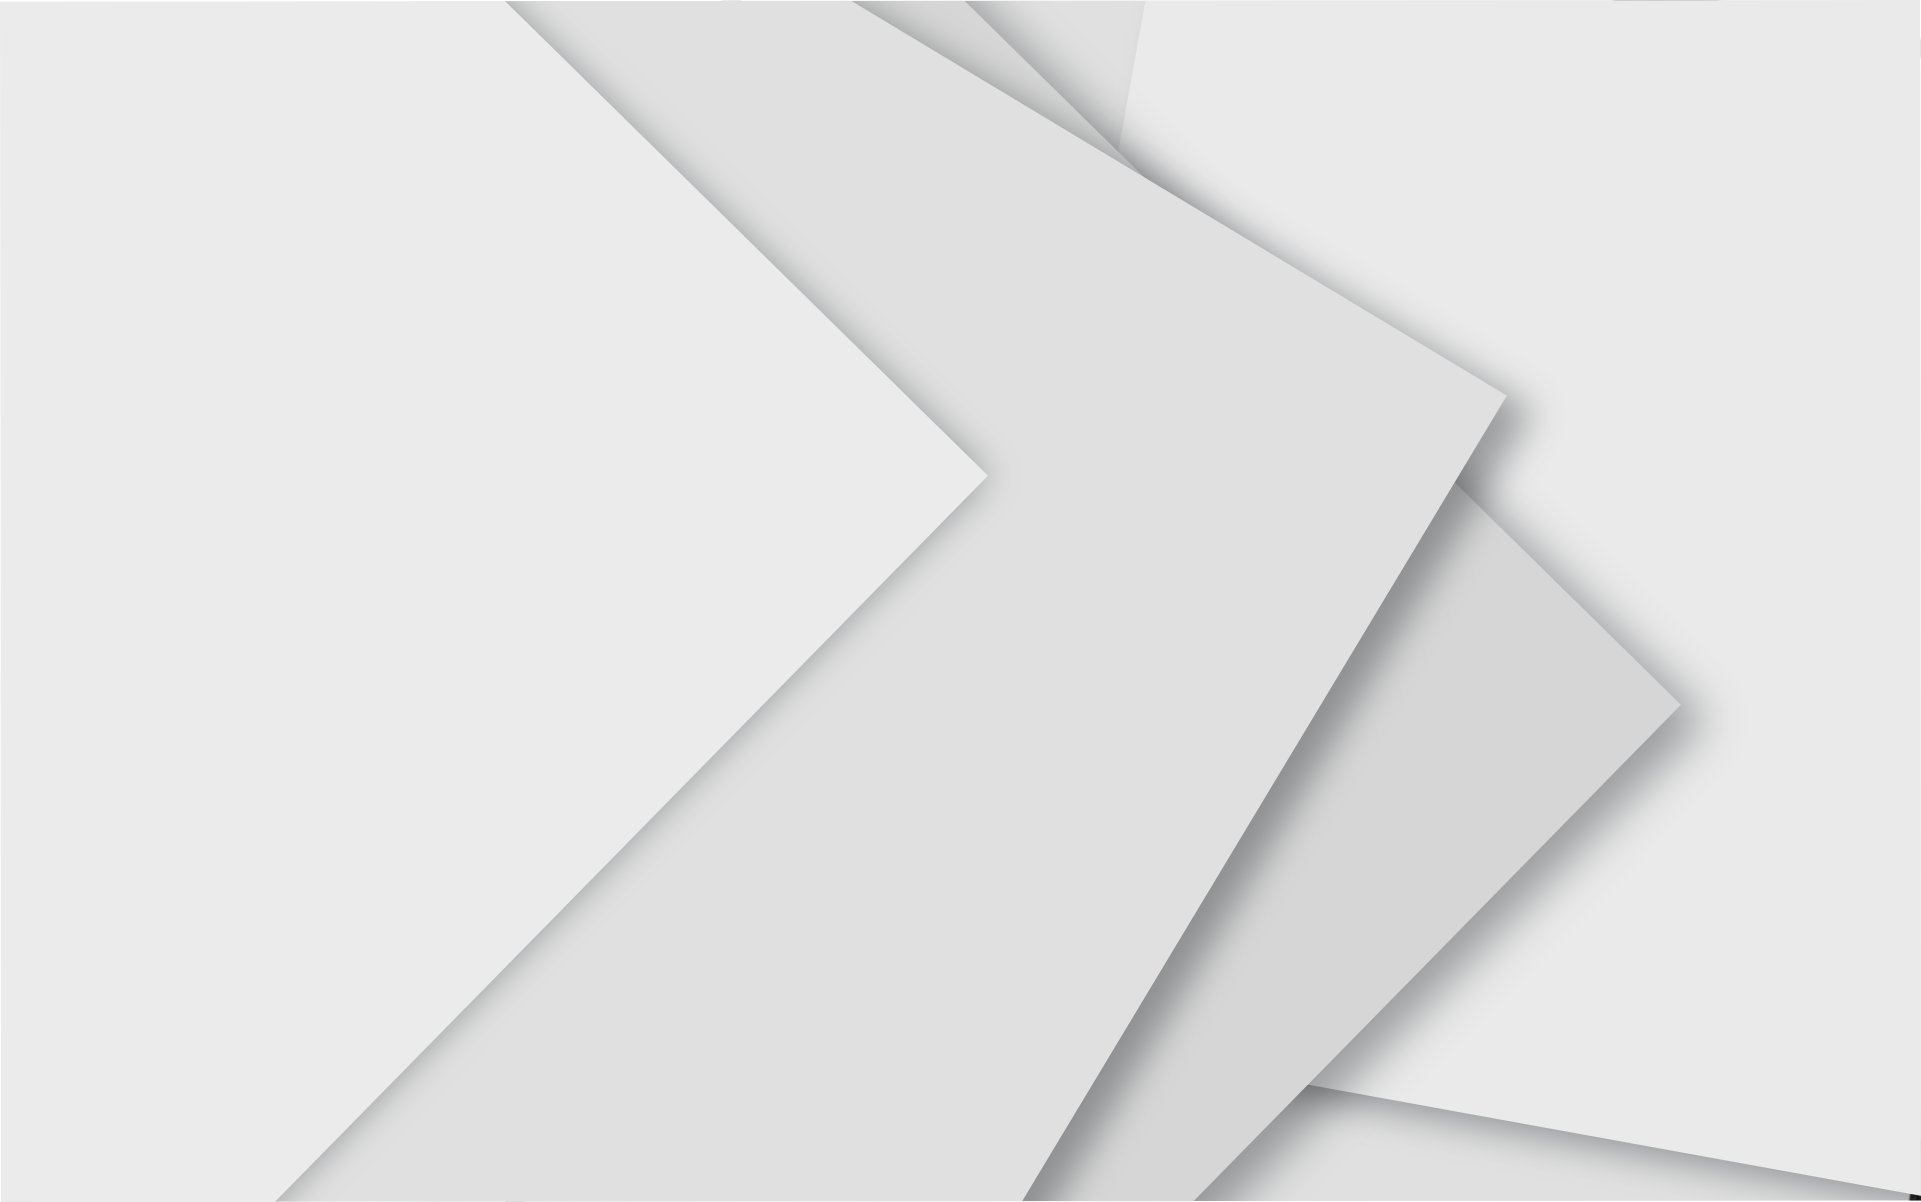
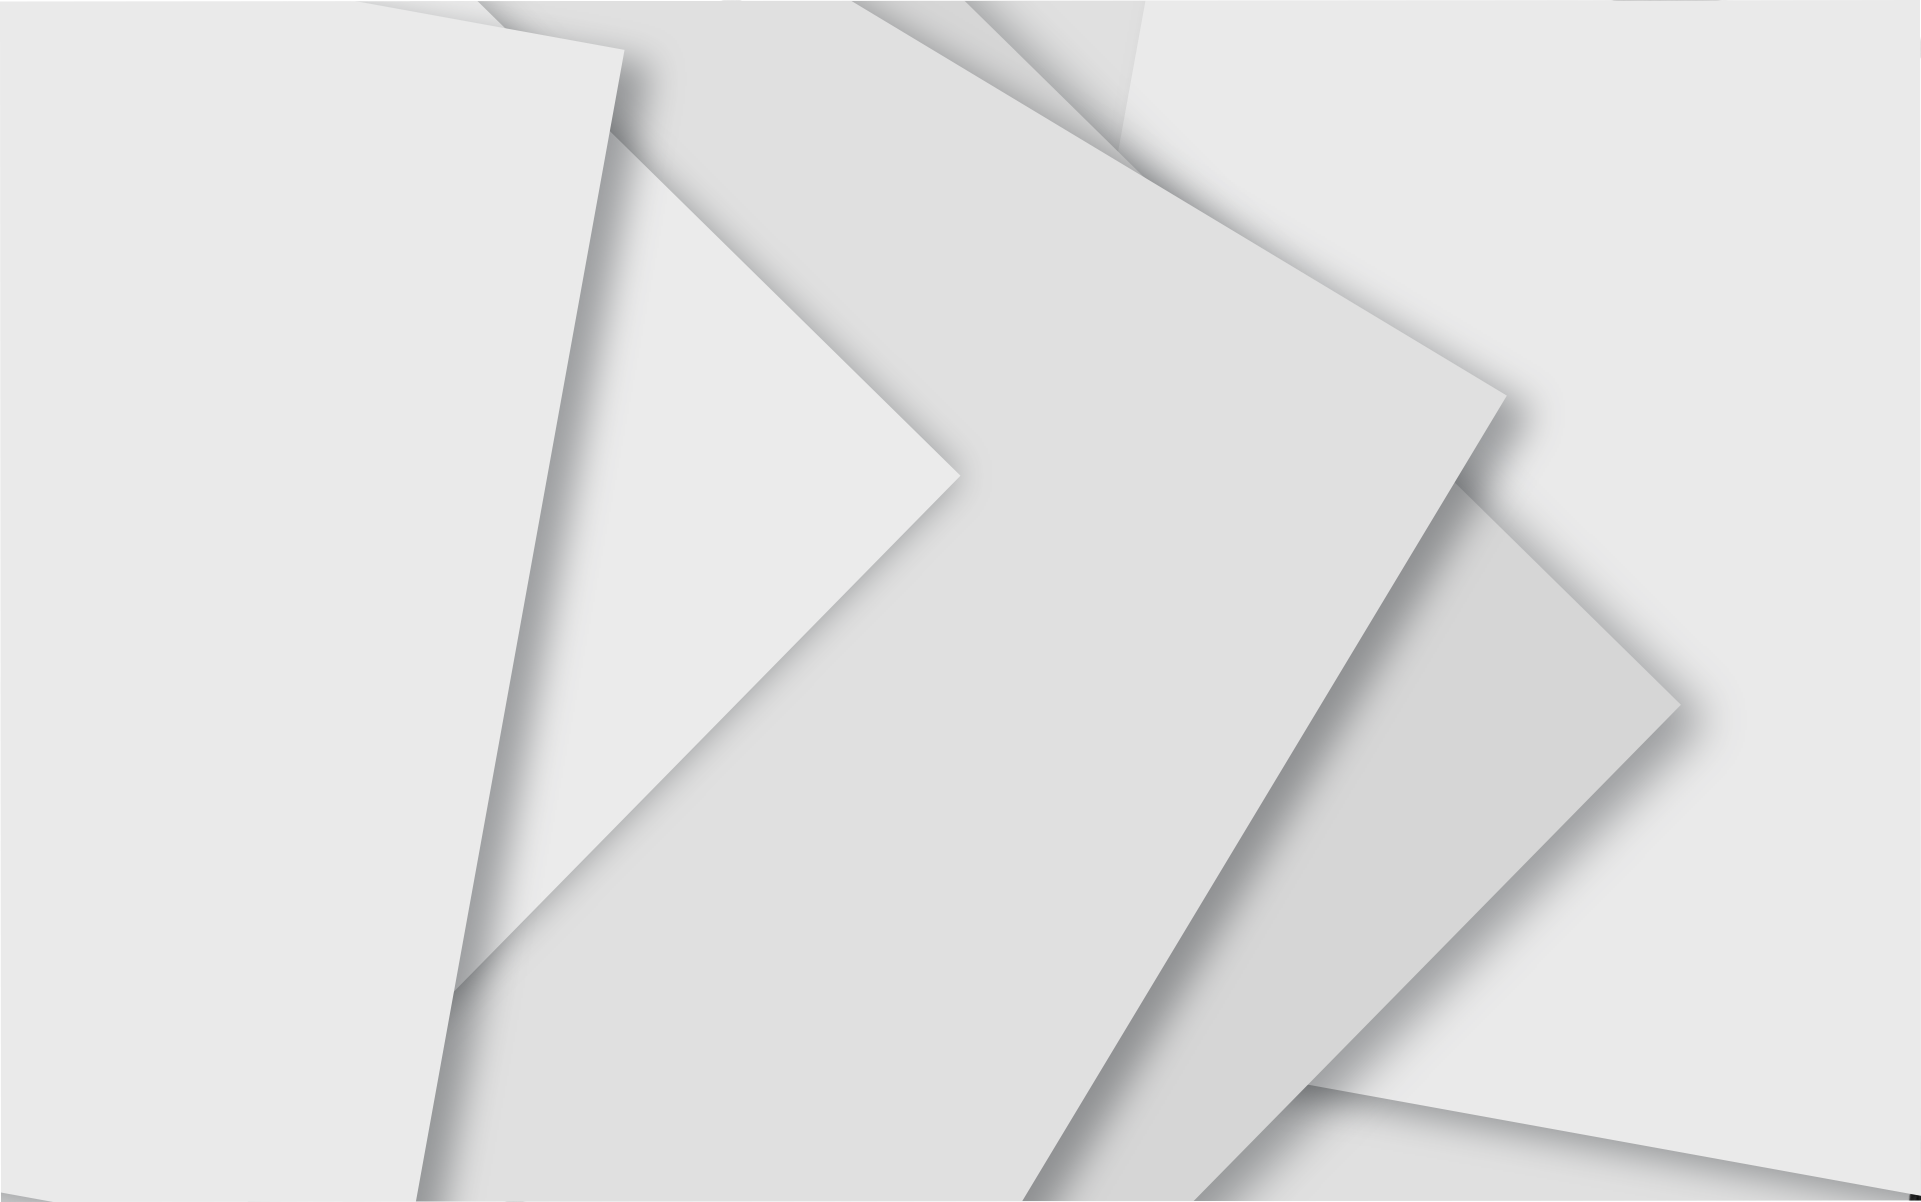
we now use svg
this image can be placed besides each other and still look like one!

diff --git a/stylesheets/stylesheet.css b/stylesheets/stylesheet.css
@@ -58,7 +58,7 @@ a {
   color: #fff;
   text-align: center;
     background-color: #B6B6B6;
-    background-image: url("http://deletescape.github.io/Control_Box_Android/images/MaterialHeader.png");}
+    background-image: url("http://deletescape.github.io/Control_Box_Android/images/MaterialHeader.svg");}
 
 @media screen and (min-width: 64em) {
   .page-header {
